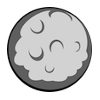
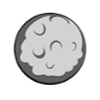
toggle piece functionality added to customization, star and moon theme added

diff --git a/public/views/customization.html b/public/views/customization.html
@@ -31,7 +31,7 @@
             <div class="w3-col l3 s6">
                 <div class="w3-container">
                     <div class="w3-display-container">
-                        <img id="boardImage0" src="imgs/board0.png" class="w3-grayscale-max" style="width:100%">
+                        <img id="boardImage0" src="imgs/board0.png" class="w3-grayscale-max">
                         <span id="boardLockTag0" class="w3-tag w3-display-topleft">Locked</span>
                         <span id="boardSelectedTag0" class="w3-tag w3-green w3-display-topright" style="display: none">Selected</span>
                         <div class="w3-display-middle w3-display-hover">
@@ -45,7 +45,7 @@
             <div class="w3-col l3 s6">
                 <div class="w3-container">
                     <div class="w3-display-container">
-                        <img id="boardImage1" src="imgs/waluigi.png" class="w3-grayscale-max" style="width:100%">
+                        <img id="boardImage1" src="imgs/board1.png" class="w3-grayscale-max">
                         <span id="boardLockTag1" class="w3-tag w3-display-topleft">Locked</span>
                         <span id="boardSelectedTag1" class="w3-tag w3-green w3-display-topright" style="display: none">Selected</span>
                         <div class="w3-display-middle w3-display-hover">
@@ -59,7 +59,7 @@
                 <div class="w3-col l3 s6">
                     <div class="w3-container">
                         <div class="w3-display-container">
-                            <img id="boardImage2" src="imgs/waluigi.png" class="w3-grayscale-max" style="width:100%">
+                            <img id="boardImage2" src="imgs/waluigi.png" class="w3-grayscale-max">
                             <span id="boardLockTag2" class="w3-tag w3-display-topleft">Locked</span>
                             <span id="boardSelectedTag2" class="w3-tag w3-green w3-display-topright" style="display: none">Selected</span>
                             <div class="w3-display-middle w3-display-hover">
@@ -90,13 +90,13 @@
 					<button id="togglePiece" class="w3-button w3-black" onclick="togglePiece()">Toggle Piece</button>
           <h2 style="color:white;" class="centered">Piece Design</h2>
         </div>
-        <div class="PieceDesign w3-container">
+        <div class="pieceDesign w3-container">
             
             <div class="w3-row">
             <div class="w3-col l3 s6">
                 <div class="w3-container">
                     <div class="w3-display-container">
-                        <img id="pieceImage0" src="imgs/pieceX0.png" class="w3-grayscale-max pieceImg" style="width:100%">
+                        <img id="pieceImage0" src="imgs/pieceX0.png" class="w3-grayscale-max pieceImg">
                         <span id="pieceLockTag0" class="w3-tag w3-display-topleft">Locked</span>
                         <span id="pieceSelectedTag0" class="w3-tag w3-green w3-display-topright" style="display: none">Selected</span>
                             <div class="w3-display-middle w3-display-hover">
@@ -110,7 +110,7 @@
             <div class="w3-col l3 s6">
                 <div class="w3-container">
                     <div class="w3-display-container">
-                        <img id="pieceImage1" src="imgs/pieceX1.png" class="w3-grayscale-max pieceImg" style="width:100%">
+                        <img id="pieceImage1" src="imgs/pieceX1.png" class="w3-grayscale-max pieceImg">
                         <span id="pieceLockTag1" class="w3-tag w3-display-topleft">Locked</span>
                         <span id="pieceSelectedTag1" class="w3-tag w3-green w3-display-topright" style="display: none">Selected</span>
                         <div class="w3-display-middle w3-display-hover">
@@ -124,7 +124,7 @@
             <div class="w3-col l3 s6">
                 <div class="w3-container">
                     <div class="w3-display-container">
-                        <img id="pieceImage2" src="imgs/waluigi.png" class="w3-grayscale-max pieceImg" style="width:100%">
+                        <img id="pieceImage2" src="imgs/waluigi.png" class="w3-grayscale-max pieceImg">
                         <span id="pieceLockTag2" class="w3-tag w3-display-topleft">Locked</span>
                         <span id="pieceSelectedTag2" class="w3-tag w3-green w3-display-topright" style="display: none">Selected</span>
                         <div class="w3-display-middle w3-display-hover">
@@ -138,7 +138,7 @@
             <div class="w3-col l3 s6">
                 <div class="w3-container">
                     <div class="w3-display-container">
-                        <img id="pieceImage3" src="imgs/pieceX3.png" class="w3-grayscale-max pieceImg" style="width:100%">
+                        <img id="pieceImage3" src="imgs/pieceX3.png" class="w3-grayscale-max pieceImg">
                         <span id="pieceLockTag3" class="w3-tag w3-display-topleft">Locked</span>
                         <span id="pieceSelectedTag3" class="w3-tag w3-green w3-display-topright" style="display: none">Selected</span>
                         <div class="w3-display-middle w3-display-hover">
@@ -159,7 +159,7 @@
             <div class="w3-col l3 s6">
                 <div class="w3-container">
                     <div class="w3-display-container">
-                        <img id="backgroundImage0" src="imgs/background0.png" class="w3-grayscale-max" style="width:100%">
+                        <img id="backgroundImage0" src="imgs/background0.png" class="w3-grayscale-max">
                         <span id="backgroundLockTag0" class="w3-tag w3-display-topleft">Locked</span>
                         <span id="backgroundSelectedTag0" class="w3-tag w3-green w3-display-topright" style="display: none">Selected</span>
                         <div class="w3-display-middle w3-display-hover">
@@ -173,7 +173,7 @@
             <div class="w3-col l3 s6">
                 <div class="w3-container">
                     <div class="w3-display-container">
-                        <img id="backgroundImage1" src="imgs/background1.png" class="w3-grayscale-max" style="width:100%">
+                        <img id="backgroundImage1" src="imgs/background1.png" class="w3-grayscale-max">
                         <span id="backgroundLockTag1" class="w3-tag w3-display-topleft">Locked</span>
                         <span id="backgroundSelectedTag1" class="w3-tag w3-green w3-display-topright" style="display: none">Selected</span>
                         <div class="w3-display-middle w3-display-hover">
@@ -187,7 +187,7 @@
             <div class="w3-col l3 s6">
                 <div class="w3-container">
                     <div class="w3-display-container">
-                        <img id="backgroundImage2" src="imgs/waluigi.png" class="w3-grayscale-max" style="width:100%">
+                        <img id="backgroundImage2" src="imgs/waluigi.png" class="w3-grayscale-max">
                         <span id="backgroundLockTag2" class="w3-tag w3-display-topleft">Locked</span>
                         <span id="backgroundSelectedTag2" class="w3-tag w3-green w3-display-topright" style="display: none">Selected</span>
                         <div class="w3-display-middle w3-display-hover">
@@ -201,7 +201,7 @@
             <div class="w3-col l3 s6">
                 <div class="w3-container">
                     <div class="w3-display-container">
-                        <img id="backgroundImage3" src="imgs/background3.png" class="w3-grayscale-max" style="width:100%">
+                        <img id="backgroundImage3" src="imgs/background3.png" class="w3-grayscale-max">
                         <span id="backgroundLockTag3" class="w3-tag w3-display-topleft">Locked</span>
                         <span id="backgroundSelectedTag3" class="w3-tag w3-green w3-display-topright" style="display: none">Selected</span>
                         <div class="w3-display-middle w3-display-hover">

diff --git a/public/css/customization.css b/public/css/customization.css
@@ -1,3 +1,15 @@
+.boardDesign img{
+	width: 150px; 
+	height: 150px
+}
+.pieceDesign img{
+	width: 150px; 
+	height: 150px
+}
+.backgroundDesign img{
+	width: 100%; 
+	height: 150px
+}
 #insufficientCash {
     display: none; 
     position: fixed; 
